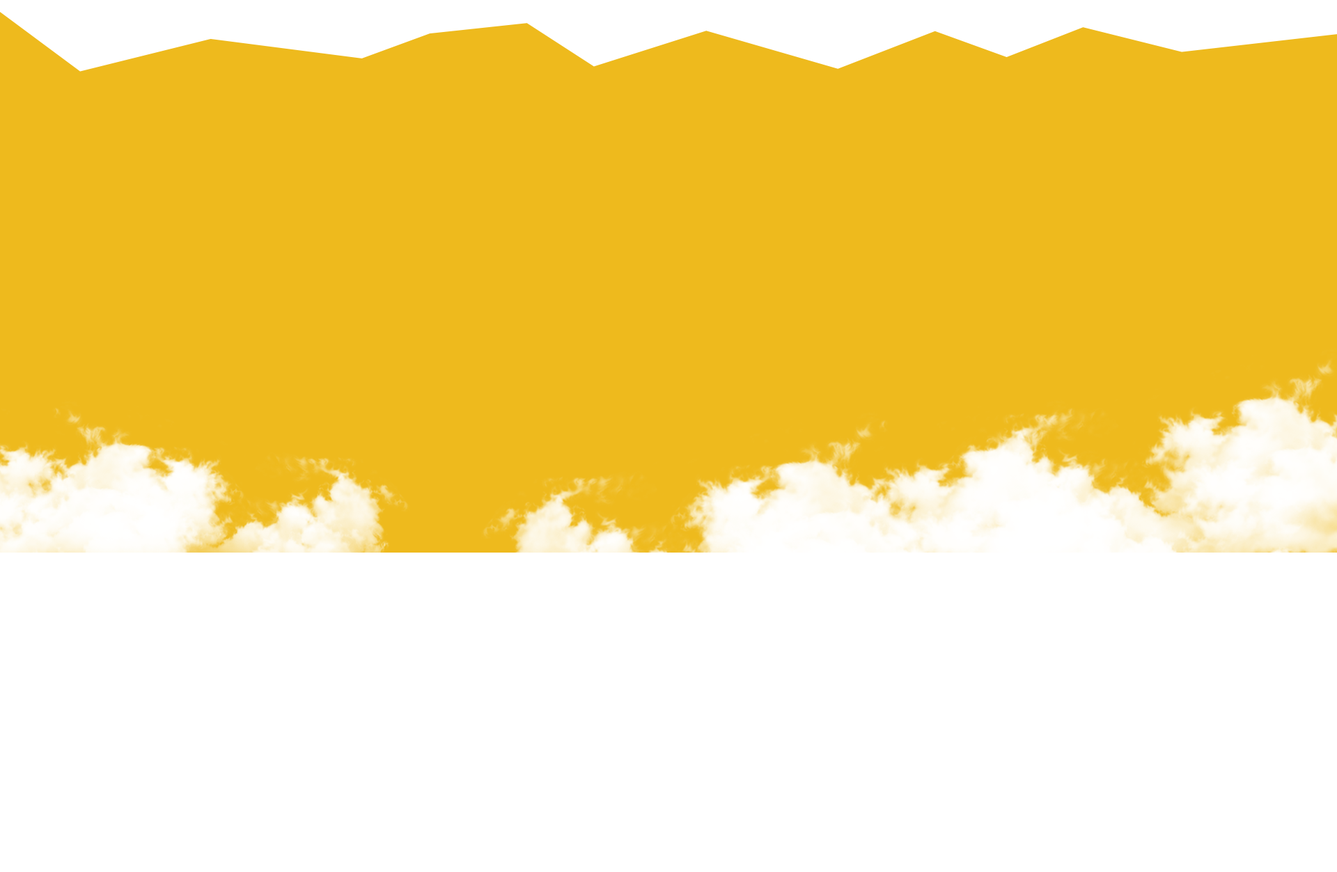
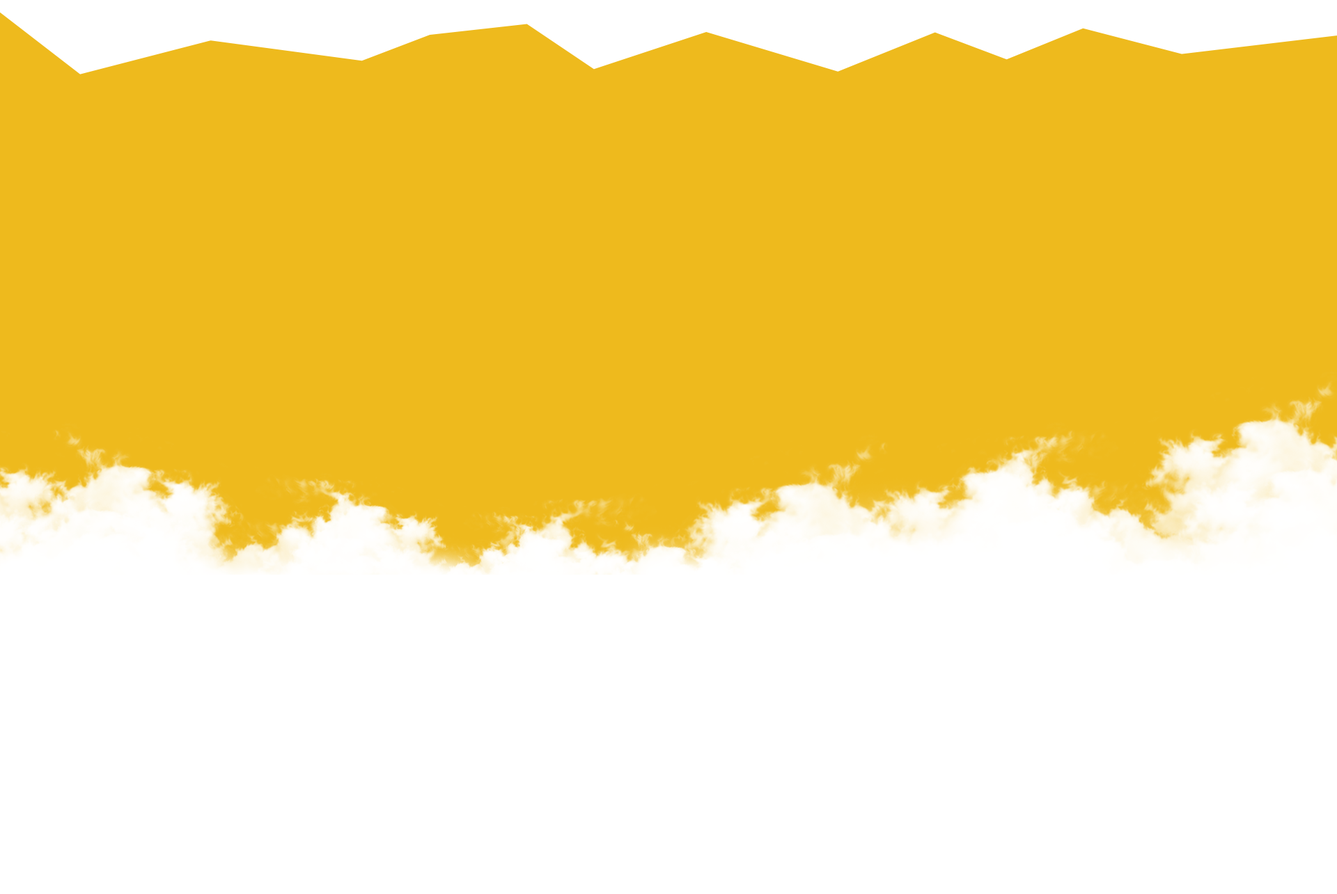
s

Changed region(s): [[0.0, 0.4046, 1.0, 0.6536], [0.9375, 0.5291, 0.9688, 0.5603]]

diff --git a/assets/templates/miner/css/style.min.css b/assets/templates/miner/css/style.min.css
@@ -1,1 +1,1 @@
-.page-header__social,.page-header__time{display:-webkit-box;display:-ms-flexbox}.hardware h2,.hardware__item,.hardware__sub-title,.proof__box,.proof__resume,.tabs tr{text-align:center}body{min-width:320px;margin:0;font-family:'SF UI Text',Arial sans-serif}.container{width:1150px;margin:auto}@media screen and (max-width:1200px){.container{width:95%}}@media screen and (max-width:768px){.container{width:98%}}@font-face{font-family:'SF UI Text';src:local("SF UI Text Semibold"),local("SFUIText-Semibold"),url(../fonts/SFUIText-Semibold.woff) format("woff");font-weight:600;font-style:normal}@font-face{font-family:'SF UI Text';src:local("SF UI Text Regular"),local("SFUIText-Regular"),url(../fonts/SFUIText-Regular.woff) format("woff");font-weight:400;font-style:normal}@font-face{font-family:'SF UI Text';src:local("SF UI Text Bold"),local("SFUIText-Bold"),url(../fonts/SFUIText-Bold.woff) format("woff");font-weight:700;font-style:normal}@font-face{font-family:'SF UI Text';src:local("SF UI Text Light"),local("SFUIText-Light"),url(../fonts/SFUIText-Light.woff) format("woff");font-weight:300;font-style:normal}@font-face{font-family:'SF UI Text';src:local("SF UI Text Heavy"),local("SFUIText-Heavy"),url(../fonts/SFUIText-Heavy.woff) format("woff");font-weight:900;font-style:normal}@font-face{font-family:'SF UI Text';src:local("SF UI Text Medium"),local("SFUIText-Medium"),url(../fonts/SFUIText-Medium.woff) format("woff");font-weight:500;font-style:normal}.page-header{background:url(../img/header-bg.png) no-repeat #0f0e12;background-size:cover}.page-header h1{margin-top:100px;margin-bottom:0;color:#fff;font-size:60px}.page-header__title{padding-top:15px}.page-header__title b{color:#fff;font-size:30px;font-weight:700}.page-header__social{display:flex;margin-top:40px}.page-header__link{display:block;width:40px;height:40px;margin-right:20px;opacity:.5;-webkit-transition:.3s;transition:.3s}.nav__left a,.nav__right a{text-decoration:none;-webkit-transition:.3s;text-transform:uppercase}.page-header__link:hover{opacity:1}.page-header__link--phone{background:url(../img/header-sprite.png) -69px -10px}.page-header__link--linkedin{background:url(../img/header-sprite.png) -128px -10px}.page-header__link--email{background:url(../img/header-sprite.png) -248px -10px}.page-header__link--facebook{background:url(../img/header-sprite.png) -10px -10px}.page-header__link--skype{background:url(../img/header-sprite.png) -188px -10px}.page-header__timer{margin-top:100px;color:#fff}.page-header__timer b{font-size:20px;font-weight:700;font-style:italic;text-transform:uppercase}.page-header__time{display:flex;margin-top:25px}.page-header__item,.page-header__offer{display:-webkit-box;display:-ms-flexbox}.page-header__number{margin-right:20px;margin-left:10px;font-style:italic;text-align:center}.page-header__number small{font-size:16px;text-transform:uppercase}.page-header__number p{margin:0;font-size:55px;font-weight:700}.page-header__number--ml{margin-left:-10px}.page-header__dot{font-size:25px;font-style:italic}.page-header__offer{display:flex;-webkit-box-pack:justify;-ms-flex-pack:justify;justify-content:space-between;margin-top:90px}.page-header__item{display:flex;-webkit-box-orient:vertical;-webkit-box-direction:normal;-ms-flex-direction:column;flex-direction:column;height:76px;padding-top:10px;padding-left:100px;background:url(../img/header-offer.png) left no-repeat}.nav,.page-header__about{-webkit-box-pack:justify}.page-header__item b{color:#fff;font-size:25px}.page-header__item a{color:#ffe592;font-size:20px;text-decoration:none}.page-header__about{display:-webkit-box;display:-ms-flexbox;display:flex;-ms-flex-pack:justify;justify-content:space-between;margin-top:150px;padding-bottom:50px}.page-header__about b{font-size:25px;text-transform:uppercase}.page-header__right a{color:#4183c4;text-decoration:none}.page-header__right ul{padding-left:20px}@media screen and (max-width:1200px){.page-header__about{margin-top:160px}.page-header__item b{padding-bottom:10px;font-size:20px}.page-header__item a{font-size:18px}}@media screen and (max-width:768px){.page-header__timer,.page-header__title{text-align:center}.page-header{min-height:900px}.page-header__social{-webkit-box-pack:center;-ms-flex-pack:center;justify-content:center}.page-header__time{-webkit-box-pack:center;-ms-flex-pack:center;justify-content:center;-ms-flex-wrap:wrap;flex-wrap:wrap}.page-header__about,.page-header__offer{display:none}}.nav,.nav__right{display:-webkit-box;display:-ms-flexbox}.nav{display:flex;-ms-flex-pack:justify;justify-content:space-between;padding-top:50px}.nav__left a{margin-right:20px;padding-bottom:3px;color:#fff;font-size:20px;font-weight:100;transition:.3s}.nav__left a:hover{color:#ffcc31;border-bottom:1px solid #ffcc31}.nav__right{display:flex;color:#fff;font-size:14px}.nav__right a{margin-right:10px;padding:2px 15px;color:#fff;border:1px solid #fff;transition:.3s}.nav__right a:hover{color:#000;background:#fff}.nav__language{margin-top:4px;margin-right:15px}.nav__language a{margin:0;padding:0;border:none}.nav__language a:hover{color:#ffcc31;background:0 0}.hardware h2{margin-top:70px;margin-bottom:0;color:#480000;font-size:30px;text-transform:uppercase}.hardware__sub-title{color:#480000}.hardware__list,.hardware__video{display:-webkit-box;display:-ms-flexbox;display:flex;-webkit-box-pack:justify;-ms-flex-pack:justify;justify-content:space-between;margin-top:50px}.hardware__item p{margin-top:0;margin-bottom:10px}.hardware__item a{display:block;margin:auto;width:160px;height:26px;background:url(../img/hardware-amazon.png)}.hardware__title{font-size:25px;font-weight:700;text-transform:uppercase}.hardware__charter{padding-top:20px;font-size:18px;font-weight:700}.hardware__value{color:#480000;font-size:25px;font-weight:700}.hardware__value--yes{color:#4183c4;text-decoration:underline}@media screen and (max-width:768px){.hardware__list,.hardware__video{-webkit-box-orient:vertical;-webkit-box-direction:normal}.hardware__video{-ms-flex-direction:column;flex-direction:column;-webkit-box-align:center;-ms-flex-align:center;align-items:center}.hardware__video iframe{width:100%;margin-bottom:40px}.hardware__list{-ms-flex-direction:column;flex-direction:column}.hardware__title{padding-top:40px}}.proof__flex,.tabs__flex{display:-webkit-box;display:-ms-flexbox;-webkit-box-pack:justify}.tabs__flex{display:flex;-ms-flex-pack:justify;justify-content:space-between;margin-top:60px;padding-bottom:30px}.tabs__flex p{font-size:18px;opacity:.8}.tabs th{color:#fff;background:#666}.tabs tr{background:#a6a6a6}.tabs a{color:#000;text-decoration:none;-webkit-transition:.3s;transition:.3s;opacity:.5}.tabs a:hover{color:#000;text-decoration:underline;opacity:1}.diff__left,.proof__left{color:#fff;font-weight:700}@media screen and (max-width:768px){.tabs__flex{-webkit-box-orient:vertical;-webkit-box-direction:normal;-ms-flex-direction:column;flex-direction:column;text-align:center;-webkit-box-align:center;-ms-flex-align:center;align-items:center}}.mining{min-height:1100px;background:url(../img/mining-bg.png) top no-repeat;background-size:cover}.truck{min-height:650px;margin-bottom:90px;background:url(../img/truck-bg.png) top no-repeat;background-size:cover}@media screen and (max-width:1200px){.truck{min-height:500px;margin-top:-150px}}.proof__flex{display:flex;-ms-flex-pack:justify;justify-content:space-between;padding-bottom:70px}.cloud__flex,.diff__flex{display:-webkit-box;display:-ms-flexbox}.proof__left{padding:40px;font-size:45px;background:#000}.proof__left p{margin:0}.proof__right{padding-top:20px;padding-left:200px;font-size:30px;font-weight:700;text-transform:uppercase;background:url(../img/proof-power.png) left no-repeat}.proof__box{padding-top:170px;width:170px;font-size:25px;text-transform:uppercase}.proof__box--energy{background:url(../img/proof-energy.png) top no-repeat}.proof__box--hard{background:url(../img/proof-hard.png) top no-repeat}.proof__box--time{margin-top:20px;padding-top:150px;background:url(../img/proof-time.png) top no-repeat}.proof__resume{padding-bottom:90px;font-size:30px}.rewards{min-height:1600px;background:url(../img/rewards-bg.png);background-size:cover}.diff__flex{display:flex;-webkit-box-pack:justify;-ms-flex-pack:justify;justify-content:space-between;text-transform:uppercase}.diff__left{padding:40px;font-size:45px;background:#000}.diff__left p{margin:0}.edge{min-height:1700px;margin-top:-350px;background:url(../img/edge-bg.png) top no-repeat;background-size:cover}.cloud{margin-top:-150px;background:url(../img/cloud-bg.png)}.cloud__flex{display:flex;-ms-flex-pack:distribute;justify-content:space-around;padding-top:200px;padding-bottom:100px}.cloud__left,.cloud__middle{width:500px;font-size:18px;color:rgba(0,0,0,.8)}.cloud__title{margin-top:20px;padding:30px;color:#fff;font-size:40px;font-weight:700;background:#000;text-transform:uppercase}@media screen and (max-width:1200px){.cloud{margin-top:-350px;background:url(../img/cloud-bg.png)}}@media screen and (max-width:768px){.cloud__flex{-webkit-box-orient:vertical;-webkit-box-direction:normal;-ms-flex-direction:column;flex-direction:column;text-align:center;-webkit-box-pack:center;-ms-flex-pack:center;justify-content:center;padding-top:130px}.cloud__title{padding:10px;font-size:30px}.cloud__left,.cloud__middle{width:auto}}.padding-bottom,.why__flex{padding-bottom:100px}.why{background:url(../img/why-bg.png)}.why b{font-size:25px;text-transform:uppercase}.why ul{padding-left:20px;font-size:18px;font-weight:700;opacity:.8}.why__flex{display:-webkit-box;display:-ms-flexbox;display:flex;-webkit-box-pack:justify;-ms-flex-pack:justify;justify-content:space-between;margin-top:70px}.why__left{padding-left:100px;background:url(../img/check-green.png) left top no-repeat}.why__right{padding-left:100px;background:url(../img/check-red.png) left top no-repeat}@media screen and (max-width:768px){.why__left,.why__right{text-align:center;padding-top:90px;padding-left:0}.why__flex{-webkit-box-orient:vertical;-webkit-box-direction:normal;-ms-flex-direction:column;flex-direction:column;margin-top:0;padding-bottom:50px}.why__left{background:url(../img/check-green.png) top no-repeat}.why__right{background:url(../img/check-red.png) top no-repeat}}
+.page-header__social,.page-header__time{display:-webkit-box;display:-ms-flexbox}.hardware h2,.hardware__item,.hardware__sub-title,.proof__box,.proof__resume,.tabs tr{text-align:center}body{min-width:320px;margin:0;font-family:'SF UI Text',Arial sans-serif}.container{width:1150px;margin:auto}@media screen and (max-width:1200px){.container{width:95%}}@media screen and (max-width:768px){.container{width:98%}}@font-face{font-family:'SF UI Text';src:local("SF UI Text Semibold"),local("SFUIText-Semibold"),url(../fonts/SFUIText-Semibold.woff) format("woff");font-weight:600;font-style:normal}@font-face{font-family:'SF UI Text';src:local("SF UI Text Regular"),local("SFUIText-Regular"),url(../fonts/SFUIText-Regular.woff) format("woff");font-weight:400;font-style:normal}@font-face{font-family:'SF UI Text';src:local("SF UI Text Bold"),local("SFUIText-Bold"),url(../fonts/SFUIText-Bold.woff) format("woff");font-weight:700;font-style:normal}@font-face{font-family:'SF UI Text';src:local("SF UI Text Light"),local("SFUIText-Light"),url(../fonts/SFUIText-Light.woff) format("woff");font-weight:300;font-style:normal}@font-face{font-family:'SF UI Text';src:local("SF UI Text Heavy"),local("SFUIText-Heavy"),url(../fonts/SFUIText-Heavy.woff) format("woff");font-weight:900;font-style:normal}@font-face{font-family:'SF UI Text';src:local("SF UI Text Medium"),local("SFUIText-Medium"),url(../fonts/SFUIText-Medium.woff) format("woff");font-weight:500;font-style:normal}.page-header{background:url(../img/header-bg.png) no-repeat #0f0e12;background-size:cover}.page-header h1{margin-top:100px;margin-bottom:0;color:#fff;font-size:60px}.page-header__title{padding-top:15px}.page-header__title b{color:#fff;font-size:30px;font-weight:700}.page-header__social{display:flex;margin-top:40px}.page-header__link{display:block;width:40px;height:40px;margin-right:20px;opacity:.5;-webkit-transition:.3s;transition:.3s}.nav__left a,.nav__right a{text-decoration:none;-webkit-transition:.3s;text-transform:uppercase}.page-header__link:hover{opacity:1}.page-header__link--phone{background:url(../img/header-sprite.png) -69px -10px}.page-header__link--linkedin{background:url(../img/header-sprite.png) -128px -10px}.page-header__link--email{background:url(../img/header-sprite.png) -248px -10px}.page-header__link--facebook{background:url(../img/header-sprite.png) -10px -10px}.page-header__link--skype{background:url(../img/header-sprite.png) -188px -10px}.page-header__timer{margin-top:100px;color:#fff}.page-header__timer b{font-size:20px;font-weight:700;font-style:italic;text-transform:uppercase}.page-header__time{display:flex;margin-top:25px}.page-header__item,.page-header__offer{display:-webkit-box;display:-ms-flexbox}.page-header__number{margin-right:20px;margin-left:10px;font-style:italic;text-align:center}.page-header__number small{font-size:16px;text-transform:uppercase}.page-header__number p{margin:0;font-size:55px;font-weight:700}.page-header__number--ml{margin-left:-10px}.page-header__dot{font-size:25px;font-style:italic}.page-header__offer{display:flex;-webkit-box-pack:justify;-ms-flex-pack:justify;justify-content:space-between;margin-top:90px}.page-header__item{display:flex;-webkit-box-orient:vertical;-webkit-box-direction:normal;-ms-flex-direction:column;flex-direction:column;height:76px;padding-top:10px;padding-left:100px;background:url(../img/header-offer.png) left no-repeat}.nav,.page-header__about{-webkit-box-pack:justify}.page-header__item b{color:#fff;font-size:25px}.page-header__item a{color:#ffe592;font-size:20px;text-decoration:none}.page-header__about{display:-webkit-box;display:-ms-flexbox;display:flex;-ms-flex-pack:justify;justify-content:space-between;margin-top:150px;padding-bottom:50px}.page-header__about b{font-size:25px;text-transform:uppercase}.page-header__right a{color:#4183c4;text-decoration:none}.page-header__right ul{padding-left:20px}@media screen and (max-width:1200px){.page-header__about{margin-top:160px}.page-header__item b{padding-bottom:10px;font-size:20px}.page-header__item a{font-size:18px}}@media screen and (max-width:768px){.page-header__timer,.page-header__title{text-align:center}.page-header{min-height:900px}.page-header__social{-webkit-box-pack:center;-ms-flex-pack:center;justify-content:center}.page-header__time{-webkit-box-pack:center;-ms-flex-pack:center;justify-content:center;-ms-flex-wrap:wrap;flex-wrap:wrap}.page-header__about,.page-header__offer{display:none}}.nav,.nav__right{display:-webkit-box;display:-ms-flexbox}.nav{display:flex;-ms-flex-pack:justify;justify-content:space-between;padding-top:50px}.nav__left a{margin-right:20px;padding-bottom:3px;color:#fff;font-size:20px;font-weight:100;transition:.3s}.nav__left a:hover{color:#ffcc31;border-bottom:1px solid #ffcc31}.nav__right{display:flex;color:#fff;font-size:14px}.nav__right a{margin-right:10px;padding:2px 15px;color:#fff;border:1px solid #fff;transition:.3s}.nav__right a:hover{color:#000;background:#fff}.nav__language{margin-top:4px;margin-right:15px}.nav__language a{margin:0;padding:0;border:none}.nav__language a:hover{color:#ffcc31;background:0 0}.hardware h2{margin-top:70px;margin-bottom:0;color:#480000;font-size:30px;text-transform:uppercase}.hardware__sub-title{color:#480000}.hardware__list,.hardware__video{display:-webkit-box;display:-ms-flexbox;display:flex;-webkit-box-pack:justify;-ms-flex-pack:justify;justify-content:space-between;margin-top:50px}.hardware__item p{margin-top:0;margin-bottom:10px}.hardware__item a{display:block;margin:auto;width:160px;height:26px;background:url(../img/hardware-amazon.png)}.proof__flex,.tabs__flex{display:-webkit-box;display:-ms-flexbox}.hardware__title{font-size:25px;font-weight:700;text-transform:uppercase}.hardware__charter{padding-top:20px;font-size:18px;font-weight:700}.hardware__value{color:#480000;font-size:25px;font-weight:700}.hardware__value--yes{color:#4183c4;text-decoration:underline}@media screen and (max-width:768px){.hardware__list,.hardware__video{-webkit-box-orient:vertical;-webkit-box-direction:normal}.hardware__video{-ms-flex-direction:column;flex-direction:column;-webkit-box-align:center;-ms-flex-align:center;align-items:center}.hardware__video iframe{width:100%;margin-bottom:40px}.hardware__list{-ms-flex-direction:column;flex-direction:column}.hardware__title{padding-top:40px}}.tabs__flex{display:flex;-webkit-box-pack:justify;-ms-flex-pack:justify;justify-content:space-between;margin-top:60px;padding-bottom:30px}.tabs__flex p{font-size:18px;opacity:.8}.tabs th{color:#fff;background:#666}.tabs tr{background:#a6a6a6}.tabs a{color:#000;text-decoration:none;-webkit-transition:.3s;transition:.3s;opacity:.5}.tabs a:hover{color:#000;text-decoration:underline;opacity:1}.diff__left,.proof__left{color:#fff;font-weight:700}@media screen and (max-width:768px){.tabs__flex{-webkit-box-orient:vertical;-webkit-box-direction:normal;-ms-flex-direction:column;flex-direction:column;text-align:center;-webkit-box-align:center;-ms-flex-align:center;align-items:center}}.mining{min-height:1100px;background:url(../img/mining-bg.png) top no-repeat;background-size:cover}.truck{min-height:650px;margin-bottom:90px;background:url(../img/truck-bg.png) top no-repeat;background-size:cover}@media screen and (max-width:1200px){.truck{min-height:500px;margin-top:-150px}}.proof__flex{display:flex;-webkit-box-pack:justify;-ms-flex-pack:justify;justify-content:space-between;padding-bottom:70px}.cloud__flex,.diff__flex{display:-webkit-box;display:-ms-flexbox}.proof__left{padding:40px;font-size:45px;background:#000}.proof__left p{margin:0}.proof__right{padding-top:20px;padding-left:200px;font-size:30px;font-weight:700;text-transform:uppercase;background:url(../img/proof-power.png) left no-repeat}.proof__box{padding-top:170px;width:170px;font-size:25px;text-transform:uppercase}.diff__down,.diff__up{width:430px;height:135px}.proof__box--energy{background:url(../img/proof-energy.png) top no-repeat}.proof__box--hard{background:url(../img/proof-hard.png) top no-repeat}.proof__box--time{margin-top:20px;padding-top:150px;background:url(../img/proof-time.png) top no-repeat}.proof__resume{padding-bottom:90px;font-size:30px}.rewards{min-height:1600px;background:url(../img/rewards-bg.png);background-size:cover}.diff__flex{display:flex;-ms-flex-pack:distribute;justify-content:space-around;text-transform:uppercase;margin-top:100px}.diff__left{padding:40px;font-size:45px;background:#000}.diff__left p{margin:0}.diff__right{padding-top:10px;color:#262626;font-size:25px;font-weight:700;text-transform:uppercase}.diff__up{background:url(../img/diff-left.png) no-repeat}.diff__down{background:url(../img/diff-right.png) no-repeat}.edge{min-height:1800px;margin-top:-300px;background:url(../img/edge-bg.png) top no-repeat;background-size:cover}.cloud{margin-top:-110px;background:url(../img/cloud-bg.png);background-size:cover}.cloud__flex{display:flex;-ms-flex-pack:distribute;justify-content:space-around;padding-top:200px;padding-bottom:100px}.cloud__left,.cloud__middle{width:500px;font-size:18px;color:rgba(0,0,0,.8)}.cloud__title{margin-top:20px;padding:30px;color:#fff;font-size:40px;font-weight:700;background:#000;text-transform:uppercase}@media screen and (max-width:1200px){.cloud{margin-top:-350px;background:url(../img/cloud-bg.png)}}@media screen and (max-width:768px){.cloud__flex{-webkit-box-orient:vertical;-webkit-box-direction:normal;-ms-flex-direction:column;flex-direction:column;text-align:center;-webkit-box-pack:center;-ms-flex-pack:center;justify-content:center;padding-top:130px}.cloud__title{padding:10px;font-size:30px}.cloud__left,.cloud__middle{width:auto}}.padding-bottom,.why__flex{padding-bottom:100px}.why{background:url(../img/why-bg.png)}.why b{font-size:25px;text-transform:uppercase}.why ul{padding-left:20px;font-size:18px;font-weight:700;opacity:.8}.why__flex{display:-webkit-box;display:-ms-flexbox;display:flex;-webkit-box-pack:justify;-ms-flex-pack:justify;justify-content:space-between;margin-top:70px}.why__left{padding-left:100px;background:url(../img/check-green.png) left top no-repeat}.why__right{padding-left:100px;background:url(../img/check-red.png) left top no-repeat}@media screen and (max-width:768px){.why__left,.why__right{text-align:center;padding-top:90px;padding-left:0}.why__flex{-webkit-box-orient:vertical;-webkit-box-direction:normal;-ms-flex-direction:column;flex-direction:column;margin-top:0;padding-bottom:50px}.why__left{background:url(../img/check-green.png) top no-repeat}.why__right{background:url(../img/check-red.png) top no-repeat}}

diff --git a/assets/templates/crypto/template/terms.html b/assets/templates/crypto/template/terms.html
@@ -35,8 +35,8 @@
       <div class="container__adv  container__adv--pm">
         <h1>Disclaimer</h1>
         <p>You should familiarize yourself with the things listed here. When you enter the website and it`s subdomains, you are accepting to abide by the stated terms and conditions. In case you are in a disagreement with them, then you should not enter the website.</p>
-        <p>Copyright for the pages and for the screens displaying the pages, and for the information and material therein and in their arrangement, is owned by © 2017. GRANIT OAK WORLDWIDE LIMITED All Rights Reserved, Registered in Cyprus, Igoumenitsas 12, CONNECTEDSKY HOUSE, 2027 Nicosia, Cyprus (“Cryptologi“) unless otherwise indicated.</p>
-        <p>Credit card clearing is processed by GRANIT OAK WORLDWIDE LIMITED with registered address , Igoumenitsas 12, CONNECTEDSKY HOUSE, 2027 Nicosia, Cyprus</p>
+        <p>Copyright for the pages and for the screens displaying the pages, and for the information and material therein and in their arrangement, is owned by © 2017. GRANIT OAK WORLDWIDE LIMITED All Rights Reserved, Registered in Cyprus, Igoumenitsas 12, , 2027 Nicosia, Cyprus (“Cryptologi“) unless otherwise indicated.</p>
+        <p>Credit card clearing is processed by GRANIT OAK WORLDWIDE LIMITED with registered address , Igoumenitsas 12, , 2027 Nicosia, Cyprus</p>
         <p class="page-main__about--title">Trademarks</p>
         <p>Cryptologi  is trademark and service mark of GRANIT OAK WORLDWIDE LIMITED and it used and/or registered throughout the world. GRANIT OAK WORLDWIDE LIMITED and its subsidiaries also claim rights in certain other trademarks and service marks contained in these web pages. Copies of the contents may be viewed and downloaded for your own personal non-commercial use, provided that any copy contains this Copyright/Disclaimer Notice. The contents may not otherwise be used in whole or in part in any manner without the prior written consent of Cryptologi. However, it is permissible to use the website contents for viewing and copying, but only if it is for private and not commercial usage. It is again, part of the rules you agree to follow by entering the website. Please note that any other usage of the contents found on Cryptologi is not allowed without permission.</p>
         <p class="page-main__about--title">Usage of information and other files</p>
@@ -196,8 +196,8 @@
           </ul>
         </div>
       </div>
-      <p class="page-footer__copyright">© Copyright 2017 Cryptologi, All right reserved. Cryptologi is a property of GRANIT OAK WORLDWIDE LIMITED: Igoumenitsas 12, CONNECTEDSKY HOUSE, 2027 Nicosia, Cyprus. Operational address: Igoumenitsas 12, CONNECTEDSKY HOUSE, 2027 Nicosia, Cyprus</p>
-    </div>
+      <p class="page-footer__copyright">© Copyright 2017 Cryptologi, All right reserved. Cryptologi is a property of GRANIT OAK WORLDWIDE LIMITED: Igoumenitsas 12, , 2027 Nicosia, Cyprus. Operational address: Igoumenitsas 12, , 2027 Nicosia, Cyprus<br><br>Criptologi is a software platform ONLY and does not conduct any independent diligence on or substantive review of any blockchain asset, digital currency, cryptocurrency or associated funds. You are fully and solely responsible for evaluating your investments, for determining whether you will exchange blockchain assets based on your own, and for all your decisions as to whether to exchange blockchain assets with Exodus. In many cases, blockchain assets you exchange on the basis of your research may not increase in value, and may decrease in value. Similarly, blockchain assets you exchange on the basis of your research may increase in value after your exchange.
+Past performance is not indicative of future results. Any investment in blockchain assets involves the risk of loss of part or all of your investment. The value of the blockchain assets you exchange is subject to market and other investment risks.</p>    </div>
   </footer>
 </body>
 </html>

diff --git a/assets/templates/crypto/template/legal.html b/assets/templates/crypto/template/legal.html
@@ -71,7 +71,7 @@
           <p>If any corrections are made, which change the policies and protocol for private data gathered by Cryptologi, the clients will be promptly informed about it. The client has the right to decide whether his private data will be used in a certain way. Any other change or correction which is not related to a client`s private date will be posted on the platform.</p>
           <p class="page-main__about--title">Mailing info</p>
           <p>In case you have any inquiries regarding the privacy protocol or something related to the platform, please feel free to contact us at any time. You can send us an e-mail, call us or fax us. There is always a dedicated Cryptologi employee to answer your questions.</p>
-          <p class="page-main__about--title  page-main--pb">Registered Address:<br>GRANIT OAK WORLDWIDE LIMITED, Igoumenitsas 12, CONNECTEDSKY HOUSE, 2027 Nicosia, Cyprus<br>Mailing Address:<br>Igoumenitsas 12, CONNECTEDSKY HOUSE, 2027 Nicosia, Cyprus</p>
+          <p class="page-main__about--title  page-main--pb">Registered Address:<br>GRANIT OAK WORLDWIDE LIMITED, Igoumenitsas 12, , 2027 Nicosia, Cyprus<br>Mailing Address:<br>Igoumenitsas 12, , 2027 Nicosia, Cyprus</p>
         </div>
       </div>
     </div>
@@ -104,8 +104,8 @@
           </ul>
         </div>
       </div>
-      <p class="page-footer__copyright">© Copyright 2017 Cryptologi, All right reserved. Cryptologi is a property of GRANIT OAK WORLDWIDE LIMITED: Igoumenitsas 12, CONNECTEDSKY HOUSE, 2027 Nicosia, Cyprus. Operational address: Igoumenitsas 12, CONNECTEDSKY HOUSE, 2027 Nicosia, Cyprus</p>
-    </div>
+      <p class="page-footer__copyright">© Copyright 2017 Cryptologi, All right reserved. Cryptologi is a property of GRANIT OAK WORLDWIDE LIMITED: Igoumenitsas 12, , 2027 Nicosia, Cyprus. Operational address: Igoumenitsas 12, , 2027 Nicosia, Cyprus<br><br>Criptologi is a software platform ONLY and does not conduct any independent diligence on or substantive review of any blockchain asset, digital currency, cryptocurrency or associated funds. You are fully and solely responsible for evaluating your investments, for determining whether you will exchange blockchain assets based on your own, and for all your decisions as to whether to exchange blockchain assets with Exodus. In many cases, blockchain assets you exchange on the basis of your research may not increase in value, and may decrease in value. Similarly, blockchain assets you exchange on the basis of your research may increase in value after your exchange.
+Past performance is not indicative of future results. Any investment in blockchain assets involves the risk of loss of part or all of your investment. The value of the blockchain assets you exchange is subject to market and other investment risks.</p>    </div>
   </footer>
 </body>
 </html>

diff --git a/assets/templates/crypto/index.html b/assets/templates/crypto/index.html
@@ -200,7 +200,8 @@
           </select>
         </div> -->
       </div>
-      <p class="page-footer__copyright">© Copyright 2017 Cryptologi, All right reserved. Cryptologi is a property of GRANIT OAK WORLDWIDE LIMITED: Igoumenitsas 12, CONNECTEDSKY HOUSE, 2027 Nicosia, Cyprus. Operational address: Igoumenitsas 12, CONNECTEDSKY HOUSE, 2027 Nicosia, Cyprus</p>
+      <p class="page-footer__copyright">© Copyright 2017 Cryptologi, All right reserved. Cryptologi is a property of GRANIT OAK WORLDWIDE LIMITED: Igoumenitsas 12, , 2027 Nicosia, Cyprus. Operational address: Igoumenitsas 12, , 2027 Nicosia, Cyprus<br><br>Criptologi is a software platform ONLY and does not conduct any independent diligence on or substantive review of any blockchain asset, digital currency, cryptocurrency or associated funds. You are fully and solely responsible for evaluating your investments, for determining whether you will exchange blockchain assets based on your own, and for all your decisions as to whether to exchange blockchain assets with Exodus. In many cases, blockchain assets you exchange on the basis of your research may not increase in value, and may decrease in value. Similarly, blockchain assets you exchange on the basis of your research may increase in value after your exchange.
+Past performance is not indicative of future results. Any investment in blockchain assets involves the risk of loss of part or all of your investment. The value of the blockchain assets you exchange is subject to market and other investment risks.</p>
     </div>
   </footer>
   <script src="js/script.js"></script>

diff --git a/assets/templates/crypto/template/about.html b/assets/templates/crypto/template/about.html
@@ -75,8 +75,8 @@
           </ul>
         </div>
       </div>
-      <p class="page-footer__copyright">© Copyright 2017 Cryptologi, All right reserved. Cryptologi is a property of GRANIT OAK WORLDWIDE LIMITED: Igoumenitsas 12, CONNECTEDSKY HOUSE, 2027 Nicosia, Cyprus. Operational address: Igoumenitsas 12, CONNECTEDSKY HOUSE, 2027 Nicosia, Cyprus</p>
-    </div>
+      <p class="page-footer__copyright">© Copyright 2017 Cryptologi, All right reserved. Cryptologi is a property of GRANIT OAK WORLDWIDE LIMITED: Igoumenitsas 12, , 2027 Nicosia, Cyprus. Operational address: Igoumenitsas 12, , 2027 Nicosia, Cyprus<br><br>Criptologi is a software platform ONLY and does not conduct any independent diligence on or substantive review of any blockchain asset, digital currency, cryptocurrency or associated funds. You are fully and solely responsible for evaluating your investments, for determining whether you will exchange blockchain assets based on your own, and for all your decisions as to whether to exchange blockchain assets with Exodus. In many cases, blockchain assets you exchange on the basis of your research may not increase in value, and may decrease in value. Similarly, blockchain assets you exchange on the basis of your research may increase in value after your exchange.
+Past performance is not indicative of future results. Any investment in blockchain assets involves the risk of loss of part or all of your investment. The value of the blockchain assets you exchange is subject to market and other investment risks.</p>    </div>
   </footer>
 </body>
 </html>

diff --git a/assets/templates/crypto/template/contact.html b/assets/templates/crypto/template/contact.html
@@ -68,8 +68,8 @@
           </ul>
         </div>
       </div>
-      <p class="page-footer__copyright">© Copyright 2017 Cryptologi, All right reserved. Cryptologi is a property of GRANIT OAK WORLDWIDE LIMITED: Igoumenitsas 12, CONNECTEDSKY HOUSE, 2027 Nicosia, Cyprus. Operational address: Igoumenitsas 12, CONNECTEDSKY HOUSE, 2027 Nicosia, Cyprus</p>
-    </div>
+      <p class="page-footer__copyright">© Copyright 2017 Cryptologi, All right reserved. Cryptologi is a property of GRANIT OAK WORLDWIDE LIMITED: Igoumenitsas 12, , 2027 Nicosia, Cyprus. Operational address: Igoumenitsas 12, , 2027 Nicosia, Cyprus<br><br>Criptologi is a software platform ONLY and does not conduct any independent diligence on or substantive review of any blockchain asset, digital currency, cryptocurrency or associated funds. You are fully and solely responsible for evaluating your investments, for determining whether you will exchange blockchain assets based on your own, and for all your decisions as to whether to exchange blockchain assets with Exodus. In many cases, blockchain assets you exchange on the basis of your research may not increase in value, and may decrease in value. Similarly, blockchain assets you exchange on the basis of your research may increase in value after your exchange.
+Past performance is not indicative of future results. Any investment in blockchain assets involves the risk of loss of part or all of your investment. The value of the blockchain assets you exchange is subject to market and other investment risks.</p>    </div>
   </footer>
 </body>
 </html>

diff --git a/assets/templates/crypto/template/faq.html b/assets/templates/crypto/template/faq.html
@@ -85,8 +85,8 @@
           </ul>
         </div>
       </div>
-      <p class="page-footer__copyright">© Copyright 2017 Cryptologi, All right reserved. Cryptologi is a property of GRANIT OAK WORLDWIDE LIMITED: Igoumenitsas 12, CONNECTEDSKY HOUSE, 2027 Nicosia, Cyprus. Operational address: Igoumenitsas 12, CONNECTEDSKY HOUSE, 2027 Nicosia, Cyprus</p>
-    </div>
+      <p class="page-footer__copyright">© Copyright 2017 Cryptologi, All right reserved. Cryptologi is a property of GRANIT OAK WORLDWIDE LIMITED: Igoumenitsas 12, , 2027 Nicosia, Cyprus. Operational address: Igoumenitsas 12, , 2027 Nicosia, Cyprus<br><br>Criptologi is a software platform ONLY and does not conduct any independent diligence on or substantive review of any blockchain asset, digital currency, cryptocurrency or associated funds. You are fully and solely responsible for evaluating your investments, for determining whether you will exchange blockchain assets based on your own, and for all your decisions as to whether to exchange blockchain assets with Exodus. In many cases, blockchain assets you exchange on the basis of your research may not increase in value, and may decrease in value. Similarly, blockchain assets you exchange on the basis of your research may increase in value after your exchange.
+Past performance is not indicative of future results. Any investment in blockchain assets involves the risk of loss of part or all of your investment. The value of the blockchain assets you exchange is subject to market and other investment risks.</p>    </div>
   </footer>
 </body>
 </html>

diff --git a/assets/templates/crypto/template/support.html b/assets/templates/crypto/template/support.html
@@ -68,8 +68,8 @@
           </ul>
         </div>
       </div>
-      <p class="page-footer__copyright">© Copyright 2017 Cryptologi, All right reserved. Cryptologi is a property of GRANIT OAK WORLDWIDE LIMITED: Igoumenitsas 12, CONNECTEDSKY HOUSE, 2027 Nicosia, Cyprus. Operational address: Igoumenitsas 12, CONNECTEDSKY HOUSE, 2027 Nicosia, Cyprus</p>
-    </div>
+      <p class="page-footer__copyright">© Copyright 2017 Cryptologi, All right reserved. Cryptologi is a property of GRANIT OAK WORLDWIDE LIMITED: Igoumenitsas 12, , 2027 Nicosia, Cyprus. Operational address: Igoumenitsas 12, , 2027 Nicosia, Cyprus<br><br>Criptologi is a software platform ONLY and does not conduct any independent diligence on or substantive review of any blockchain asset, digital currency, cryptocurrency or associated funds. You are fully and solely responsible for evaluating your investments, for determining whether you will exchange blockchain assets based on your own, and for all your decisions as to whether to exchange blockchain assets with Exodus. In many cases, blockchain assets you exchange on the basis of your research may not increase in value, and may decrease in value. Similarly, blockchain assets you exchange on the basis of your research may increase in value after your exchange.
+Past performance is not indicative of future results. Any investment in blockchain assets involves the risk of loss of part or all of your investment. The value of the blockchain assets you exchange is subject to market and other investment risks.</p>    </div>
   </footer>
 </body>
 </html>

diff --git a/assets/templates/crypto/template/trading.html b/assets/templates/crypto/template/trading.html
@@ -89,8 +89,8 @@
           </ul>
         </div>
       </div>
-      <p class="page-footer__copyright">© Copyright 2017 Cryptologi, All right reserved. Cryptologi is a property of GRANIT OAK WORLDWIDE LIMITED: Igoumenitsas 12, CONNECTEDSKY HOUSE, 2027 Nicosia, Cyprus. Operational address: Igoumenitsas 12, CONNECTEDSKY HOUSE, 2027 Nicosia, Cyprus</p>
-    </div>
+      <p class="page-footer__copyright">© Copyright 2017 Cryptologi, All right reserved. Cryptologi is a property of GRANIT OAK WORLDWIDE LIMITED: Igoumenitsas 12, , 2027 Nicosia, Cyprus. Operational address: Igoumenitsas 12, , 2027 Nicosia, Cyprus<br><br>Criptologi is a software platform ONLY and does not conduct any independent diligence on or substantive review of any blockchain asset, digital currency, cryptocurrency or associated funds. You are fully and solely responsible for evaluating your investments, for determining whether you will exchange blockchain assets based on your own, and for all your decisions as to whether to exchange blockchain assets with Exodus. In many cases, blockchain assets you exchange on the basis of your research may not increase in value, and may decrease in value. Similarly, blockchain assets you exchange on the basis of your research may increase in value after your exchange.
+Past performance is not indicative of future results. Any investment in blockchain assets involves the risk of loss of part or all of your investment. The value of the blockchain assets you exchange is subject to market and other investment risks.</p>    </div>
   </footer>
 </body>
 </html>

diff --git a/assets/templates/miner/css/style.css b/assets/templates/miner/css/style.css
@@ -465,10 +465,10 @@ body {
   display: -webkit-box;
   display: -ms-flexbox;
   display: flex;
-  -webkit-box-pack: justify;
-  -ms-flex-pack: justify;
-  justify-content: space-between;
-  text-transform: uppercase; }
+  -ms-flex-pack: distribute;
+  justify-content: space-around;
+  text-transform: uppercase;
+  margin-top: 100px; }
 
 .diff__left {
   padding: 40px;
@@ -479,15 +479,33 @@ body {
   .diff__left p {
     margin: 0; }
 
+.diff__right {
+  padding-top: 10px;
+  color: #262626;
+  font-size: 25px;
+  font-weight: bold;
+  text-transform: uppercase; }
+
+.diff__up {
+  width: 430px;
+  height: 135px;
+  background: url("../img/diff-left.png") no-repeat; }
+
+.diff__down {
+  width: 430px;
+  height: 135px;
+  background: url("../img/diff-right.png") no-repeat; }
+
 .edge {
-  min-height: 1700px;
-  margin-top: -350px;
+  min-height: 1800px;
+  margin-top: -300px;
   background: url("../img/edge-bg.png") no-repeat top;
   background-size: cover; }
 
 .cloud {
-  margin-top: -150px;
-  background: url("../img/cloud-bg.png"); }
+  margin-top: -110px;
+  background: url("../img/cloud-bg.png");
+  background-size: cover; }
 
 .cloud__flex {
   display: -webkit-box;

diff --git a/assets/templates/miner/sass/blocks/diff.scss b/assets/templates/miner/sass/blocks/diff.scss
@@ -1,7 +1,8 @@
 .diff__flex {
   display: flex;
-  justify-content: space-between;
+  justify-content: space-around;
   text-transform: uppercase;
+  margin-top: 100px;
 }
 
 .diff__left {
@@ -14,4 +15,24 @@
   & p {
     margin: 0;
   }
+}
+
+.diff__right {
+  padding-top: 10px;
+  color: #262626;
+  font-size: 25px;
+  font-weight: bold;
+  text-transform: uppercase;
+}
+
+.diff__up {
+  width: 430px;
+  height: 135px;
+  background: url('../img/diff-left.png') no-repeat;
+}
+
+.diff__down {
+  width: 430px;
+  height: 135px;
+  background: url('../img/diff-right.png') no-repeat;
 }

diff --git a/assets/templates/miner/index.html b/assets/templates/miner/index.html
@@ -251,8 +251,12 @@
           <p>What is<br>mining difficulty?</p>
         </div>
         <div class="diff__right">
-          <p></p>
+          <p>it’s a measure of how difficult is<br>to find a hash below the target<br>value (a 256-bit number) during<br>the proof of work</p>
         </div>
+      </div>
+      <div class="diff__flex ">
+        <div class="diff__up"></div>
+        <div class="diff__down"></div>
       </div>
     </div>
   </section>
